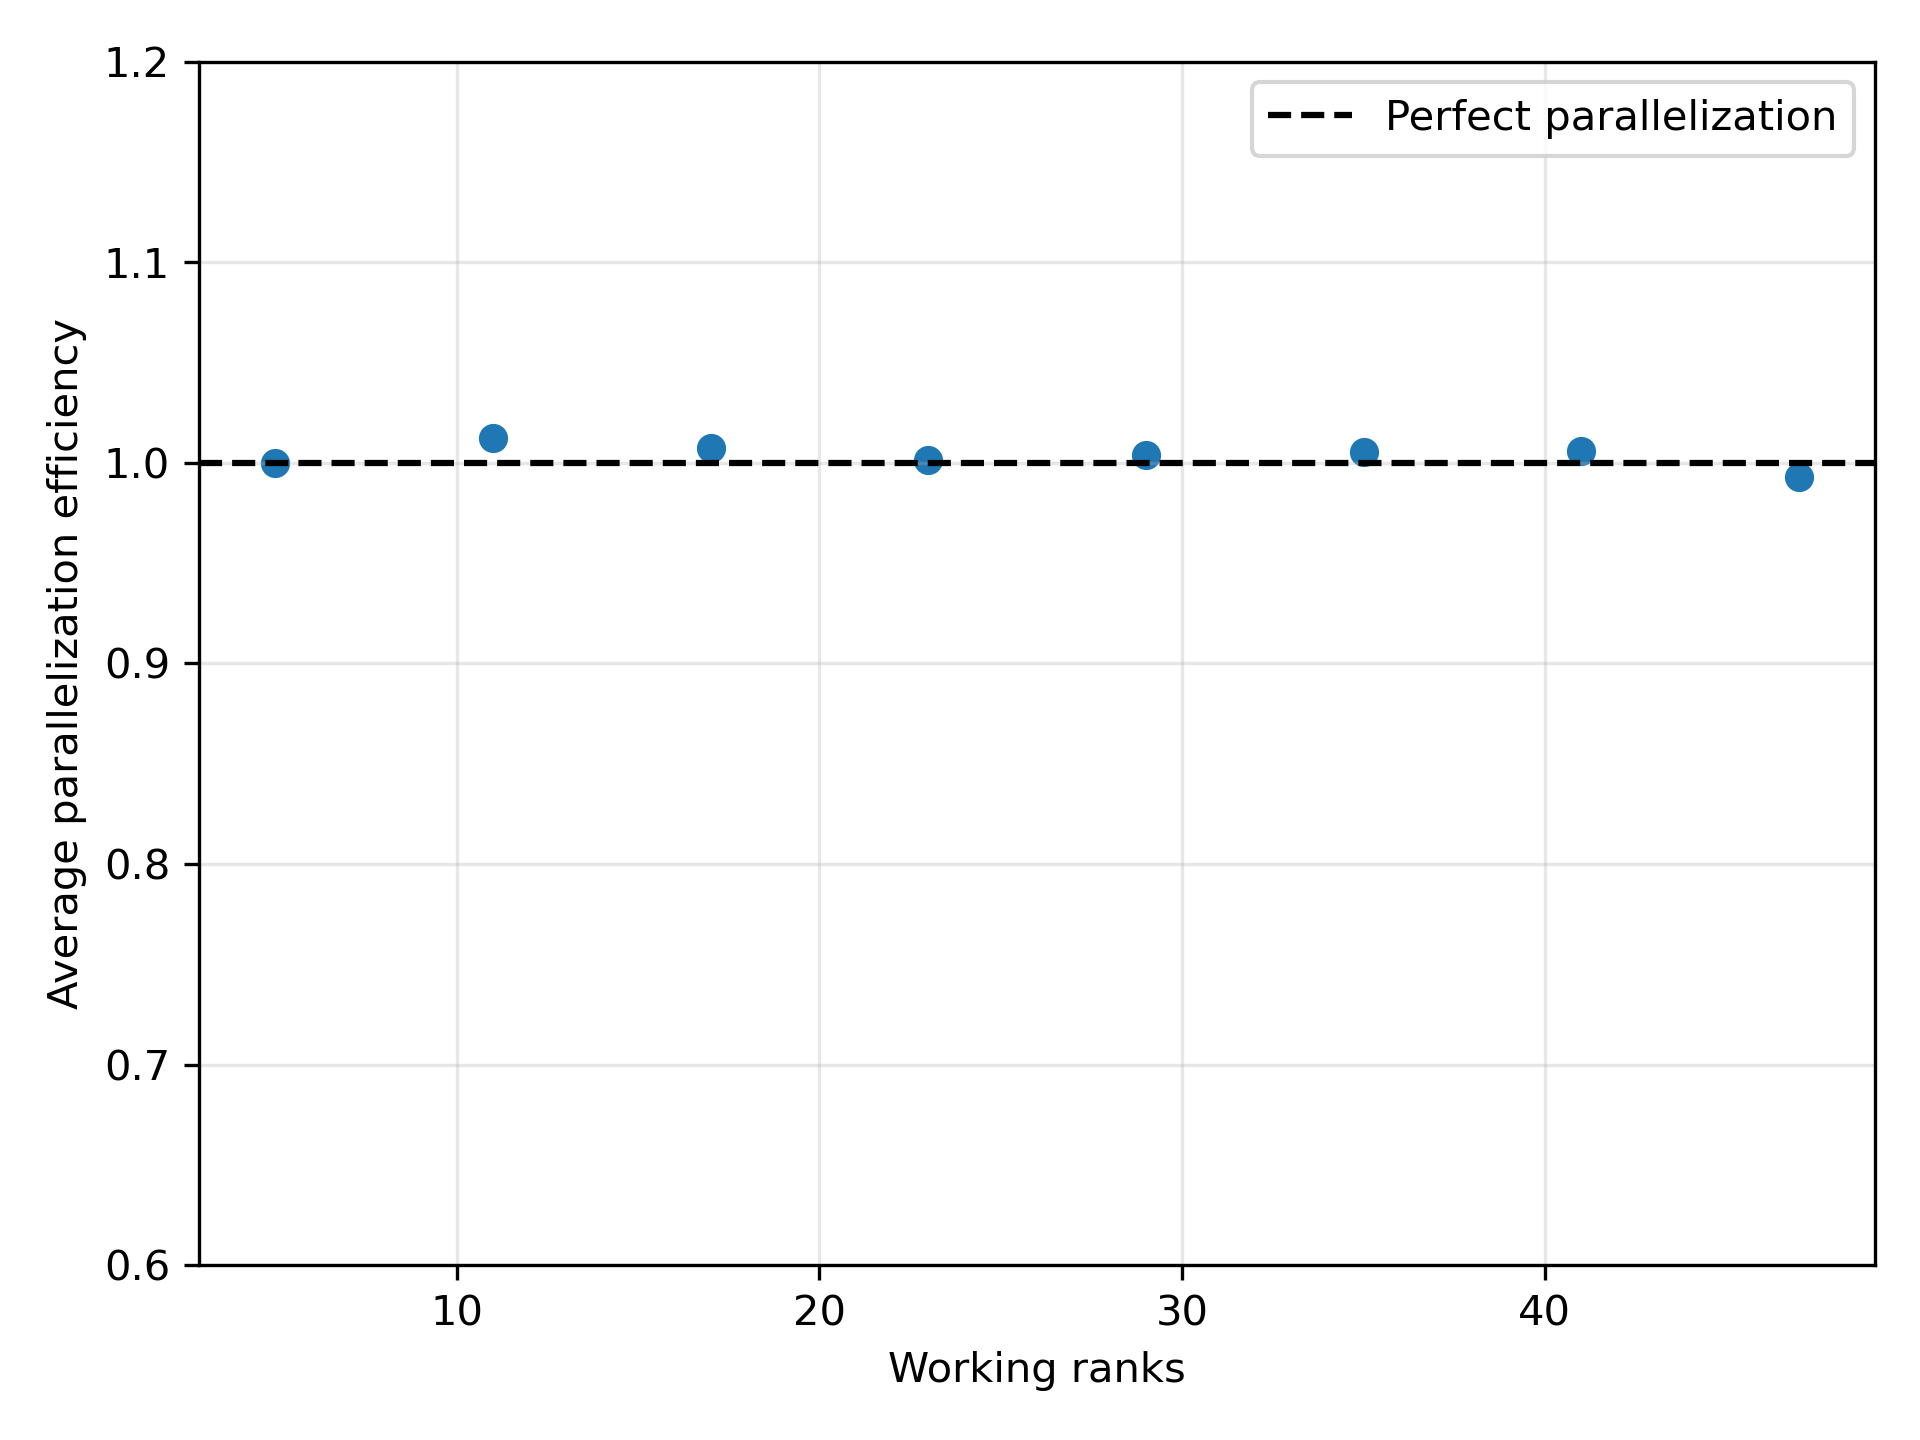
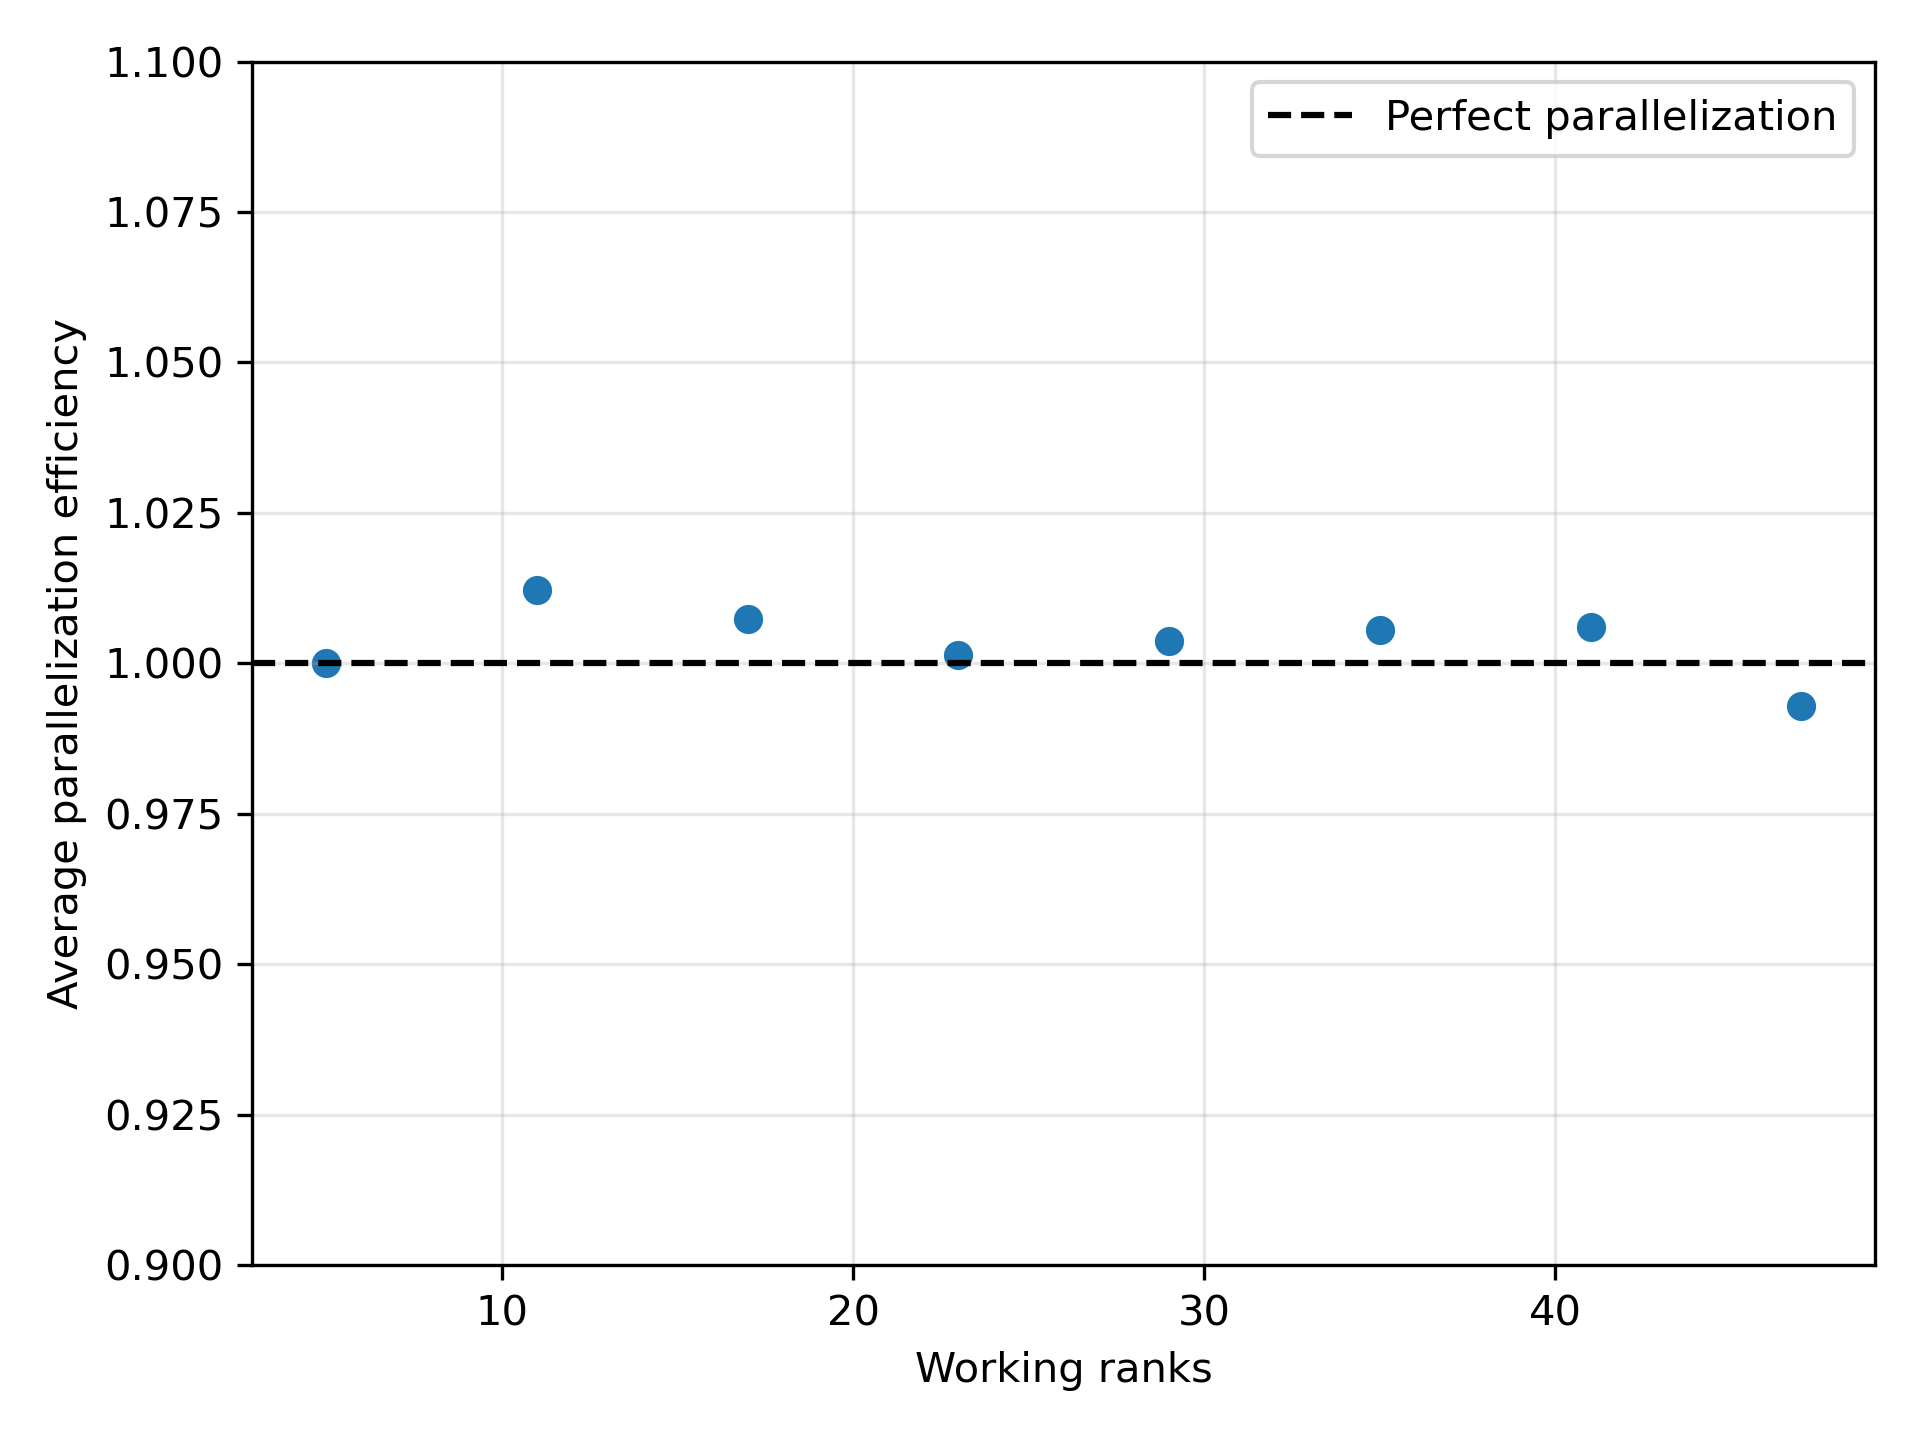
updated a plot

diff --git a/Anton/load_results.py b/Anton/load_results.py
@@ -185,7 +185,7 @@ plt.axhline(1, color="black", linestyle="--", label="Perfect parallelization")
 plt.xlabel("Working ranks")
 plt.ylabel("Average parallelization efficiency")
 plt.grid(alpha=0.3)
-plt.ylim(0.6, 1.2)
+plt.ylim(0.9, 1.1)
 plt.legend()
 plt.tight_layout()
 plt.savefig(
